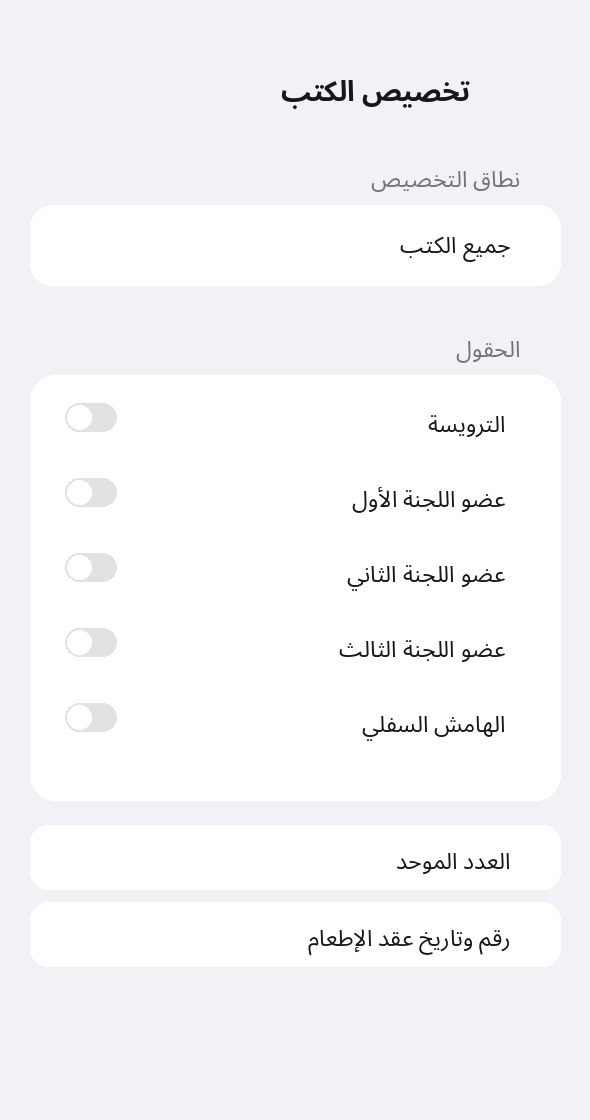
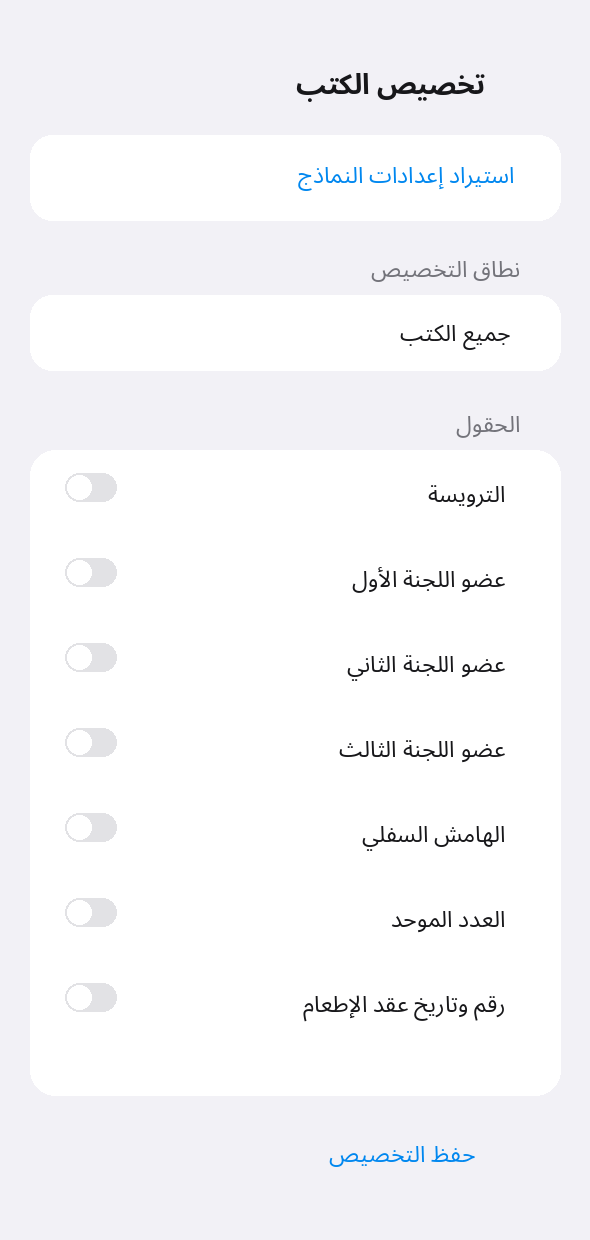
Import private Word defaults and refine draft tables

diff --git a/SalaryApp/TransferWordSelfTest.swift b/SalaryApp/TransferWordSelfTest.swift
@@ -24,6 +24,27 @@ import CryptoKit
         try check(!TransferWordFont.permitsEditableEmbedding(fontWithFlags(0x0002)) &&
                   !TransferWordFont.permitsEditableEmbedding(fontWithFlags(0x0200)) &&
                   !TransferWordFont.permitsEditableEmbedding(Data()), "restricted font permission")
+        var defaults = TransferLetterCustomizationStore()
+        defaults.common = .init(header: "ترويسة وهمية", fixedNumber: "عدد وهمي", foodContractReference: "عقد وهمي")
+        for id in TransferReferencePack.expected.keys {
+            defaults.individual[id] = .init(committeeFirst: "عضو أول", committeeSecond: "عضو ثان", committeeThird: "عضو ثالث", footer: "هامش وهمي")
+        }
+        let package = TransferWordDefaults.Package(version: 1, defaults: defaults)
+        let decoded = try TransferWordDefaults.decode(JSONEncoder().encode(package))
+        var prior = TransferLetterCustomizationStore()
+        prior.applyToAll(.init(header: "ترويسة مخصصة"))
+        prior.apply(.init(committeeFirst: "عضو مخصص"), to: "food_company")
+        let merged = TransferWordDefaults.merging(decoded, preserving: prior)
+        try check(merged.effective(for: "food_company").header == "ترويسة مخصصة" &&
+                  merged.effective(for: "food_company").committeeFirst == "عضو مخصص" &&
+                  merged.effective(for: "food_company").committeeSecond == "عضو ثان", "Word defaults preserve customizations")
+        var incompleteDefaults = defaults
+        incompleteDefaults.individual.removeValue(forKey: "water")
+        do {
+            _ = try TransferWordDefaults.decode(JSONEncoder().encode(TransferWordDefaults.Package(version: 1, defaults: incompleteDefaults)))
+            throw Failure(errorDescription: "incomplete Word settings accepted")
+        } catch is Failure { throw Failure(errorDescription: "incomplete Word settings accepted") }
+        catch { }
         let payer = "IQ06TEST123000000000001", beneficiary = "IQ76TEST123000000000002"
         let local = String(beneficiary.suffix(15)), month = "تشرين الاول 2026"
         try check(TransferRules.validIBAN(payer) && TransferRules.validIBAN(beneficiary), "synthetic accounts")
@@ -73,11 +94,13 @@ import CryptoKit
                 }
                 if count == 2 { context.beginPage() }
             }
-            guard let document = PDFDocument(data: pdf), !document.isLocked, document.pageCount == count,
-                  let firstPage = document.page(at: 0),
-                  abs(firstPage.bounds(for: .mediaBox).width - 595.3) < 2,
-                  abs(firstPage.bounds(for: .mediaBox).height - 841.9) < 2 else {
-                throw Failure(errorDescription: "synthetic PDF validation \(id)")
+            guard let document = PDFDocument(data: pdf) else { throw Failure(errorDescription: "synthetic PDF unreadable \(id) bytes=\(pdf.count)") }
+            guard !document.isLocked else { throw Failure(errorDescription: "synthetic PDF locked \(id)") }
+            guard document.pageCount == count else { throw Failure(errorDescription: "synthetic PDF pages \(id) actual=\(document.pageCount) expected=\(count)") }
+            guard let firstPage = document.page(at: 0) else { throw Failure(errorDescription: "synthetic PDF missing page \(id)") }
+            let box = firstPage.bounds(for: .mediaBox)
+            guard abs(box.width - 595.3) < 2, abs(box.height - 841.9) < 2 else {
+                throw Failure(errorDescription: "synthetic PDF size \(id) width=\(Int(box.width)) height=\(Int(box.height))")
             }
             for pageIndex in 0..<count {
                 guard let page = document.page(at: pageIndex), abs(page.bounds(for: .mediaBox).width - 595.3) < 2,
@@ -163,6 +186,17 @@ import CryptoKit
             defer { try? FileManager.default.removeItem(at: result.letter.deletingLastPathComponent()) }
             let groupXML = try content(result.letter)
             try check(result.csv != nil && groupXML.contains("المجموع"), "Word group \(id)")
+            let category: TransferCategory = id == "rafidain_group" ? .rafidain : .otherBanks
+            let expectedPlan = try TransferWordGroupPlan(allEntities: groupEntities, category: category, month: month,
+                payer: "دافع وهمي", payerIBAN: payer)
+            var wrongTable = expectedPlan.table
+            wrongTable.rows[0][4] = "999"
+            do {
+                try TransferWordVerification.verify(url: result.letter, month: month, amount: expectedPlan.total,
+                    payerIBAN: payer, text: letterText, table: wrongTable)
+                throw Failure(errorDescription: "wrong Word table amount accepted")
+            } catch is Failure { throw Failure(errorDescription: "wrong Word table amount accepted") }
+            catch { }
             generated += 1
         }
         let tooMany = (1...100).map { index -> TransferEntity in

diff --git a/SalaryApp/TransferLetterSettingsView.swift b/SalaryApp/TransferLetterSettingsView.swift
@@ -47,6 +47,11 @@ struct TransferLetterSettingsView: View {
     var body: some View {
         Form {
             Section {
+                Button(tr("استيراد إعدادات النماذج", "Import letter settings"), systemImage: "square.and.arrow.down") { importDefaults() }
+                    .disabled(busy)
+                if importing { ProgressView() }
+            } footer: { Text(tr("يملأ العدد والتواقيع والهامش من ملف الإعدادات الخاص، مع الاحتفاظ بتخصيصاتك السابقة. راجع العدد وأسماء اللجنة بعد الاستيراد.", "Fills the reference number, signatures and footer from the private settings file while preserving existing customizations. Review the reference number and committee names after import.")) }
+            Section {
                 Picker(tr("تطبيق التغييرات على", "Apply changes to"), selection: $target) {
                     Text(tr("جميع الكتب", "All letters")).tag("all")
                     ForEach(titles) { item in Text(item.title).tag(item.id) }
@@ -110,7 +115,8 @@ struct TransferLetterSettingsView: View {
         let pairs = [("header", header), ("first", first), ("second", second), ("third", third), ("footer", footer),
                      ("fixedNumber", fixedNumber), ("foodContractReference", foodContractReference)]
         guard pairs.filter({ selected.contains($0.0) }).allSatisfy({ pair in
-            pair.1.count <= 200 && !pair.1.unicodeScalars.contains(where: { $0.value < 32 && $0.value != 10 })
+            let limit = pair.0 == "footer" ? 4000 : pair.0 == "header" ? 2000 : 200
+            return pair.1.count <= limit && !pair.1.unicodeScalars.contains(where: { $0.value < 32 && $0.value != 10 })
         }) else { error = tr("أحد الحقول أطول من الحد المسموح أو يحتوي رمزاً غير صالح.", "A field is too long or contains an invalid character."); return }
         let changes = TransferLetterCustomization(header: selected.contains("header") ? header : nil,
             committeeFirst: selected.contains("first") ? first : nil, committeeSecond: selected.contains("second") ? second : nil,
@@ -130,6 +136,30 @@ struct TransferLetterSettingsView: View {
             var store = try readStore(); store.individual.removeValue(forKey: target)
             storedData = try JSONEncoder().encode(store); BackupManager.shared.markChanged(); loadTarget(); saved = true
         } catch { self.error = tr("تعذّر قراءة التخصيصات المحفوظة؛ لم يتم استبدالها.", "Could not read saved customizations; they were not replaced.") }
+    }
+    private func importDefaults() {
+        guard !busy else { return }
+        FilePicker.present(types: [.json], multiple: false) { urls in
+            guard let url = urls.first else { return }
+            importing = true; error = nil
+            Task {
+                defer { importing = false }
+                do {
+                    let imported = try await Task.detached(priority: .userInitiated) {
+                        let size = try url.resourceValues(forKeys: [.fileSizeKey]).fileSize ?? 0
+                        guard size > 0, size <= 1_000_000 else { throw TransferWordDefaults.Failure.invalid }
+                        return try TransferWordDefaults.decode(Data(contentsOf: url))
+                    }.value
+                    await FilePicker.waitUntilSettled()
+                    guard !BackupManager.shared.isWorking, !ImportCenter.shared.isBusy, !StaffImportState.shared.isImporting else {
+                        throw NSError(domain: "WordDefaults", code: 1, userInfo: [NSLocalizedDescriptionKey: tr("انتظر انتهاء العملية الحالية ثم أعد الاستيراد.", "Wait for the current operation and import again.")])
+                    }
+                    let merged = TransferWordDefaults.merging(imported, preserving: try readStore())
+                    storedData = try JSONEncoder().encode(merged)
+                    BackupManager.shared.markChanged(); loadTarget(); saved = true
+                } catch { self.error = error.localizedDescription }
+            }
+        }
     }
     private func importFont(_ style: TransferHeaderFont.Style) {
         guard !busy else { return }

diff --git a/SalaryApp/TransferWordDefaults.swift b/SalaryApp/TransferWordDefaults.swift
@@ -1,0 +1,44 @@
+import Foundation
+
+/// استيراد إعدادات مستخرجة محلياً من نماذج المالك، دون استبدال تخصيصاته السابقة.
+nonisolated enum TransferWordDefaults {
+    struct Package: Codable, Sendable {
+        let version: Int
+        let defaults: TransferLetterCustomizationStore
+    }
+    enum Failure: LocalizedError {
+        case invalid
+        var errorDescription: String? { tr("ملف إعدادات الكتب غير صالح أو لا يحتوي جميع الكتب المطلوبة.", "The letter settings file is invalid or incomplete.") }
+    }
+    static func decode(_ data: Data) throws -> TransferLetterCustomizationStore {
+        guard !data.isEmpty, data.count <= 1_000_000,
+              let package = try? JSONDecoder().decode(Package.self, from: data), package.version == 1,
+              Set(package.defaults.individual.keys) == Set(TransferReferencePack.expected.keys) else { throw Failure.invalid }
+        func valid(_ value: String?, max: Int, allowEmpty: Bool = false) -> Bool {
+            guard let value, value.count <= max, allowEmpty || !value.trimmingCharacters(in: .whitespacesAndNewlines).isEmpty else { return false }
+            return !value.unicodeScalars.contains {
+                let c = $0.value
+                return (c < 32 && c != 10) || c == 0xfffe || c == 0xffff
+            }
+        }
+        let common = package.defaults.common
+        guard valid(common.header, max: 2000), valid(common.fixedNumber, max: 200),
+              valid(common.foodContractReference, max: 200) else { throw Failure.invalid }
+        for id in TransferReferencePack.expected.keys {
+            let raw = package.defaults.individual[id]
+            guard raw?.fixedNumber == nil, raw?.foodContractReference == nil else { throw Failure.invalid }
+            let value = package.defaults.effective(for: id)
+            guard valid(value.header, max: 2000), valid(value.committeeFirst, max: 200),
+                  valid(value.committeeSecond, max: 200), valid(value.committeeThird, max: 200),
+                  valid(value.footer, max: 4000, allowEmpty: true) else { throw Failure.invalid }
+        }
+        return package.defaults
+    }
+    static func merging(_ imported: TransferLetterCustomizationStore,
+                        preserving existing: TransferLetterCustomizationStore) -> TransferLetterCustomizationStore {
+        var result = imported
+        result.applyToAll(existing.common)
+        for (id, custom) in existing.individual { result.apply(custom, to: id) }
+        return result
+    }
+}

diff --git a/SalaryApp/TransferWordTables.swift b/SalaryApp/TransferWordTables.swift
@@ -18,7 +18,7 @@ nonisolated enum TransferWordTables {
             ["1", "الحماية الاجتماعية", number(figures.socialProtection)],
             ["2", "ضريبة الدخل", number(figures.incomeTax)],
             ["", "المجموع", number(figures.treasuryTotal)]
-        ], columnWeights: [1, 6, 3])
+        ], columnWeights: [1, 6, 3], boldLastRow: true)
     }
     static func contracts(_ figures: TransferLetterFigures) throws -> TransferWordDocument.Table {
         guard figures.missingContractNominal == 0, let nominal = figures.contractNominalShare,
@@ -36,7 +36,7 @@ nonisolated enum TransferWordTables {
               valid(list.total), list.total == expected else { throw Failure.incomplete }
         var rows = list.employees.map { [$0.name, $0.rank, $0.workplace, number($0.amount)] }
         rows.append(["", "", "المجموع", number(expected)])
-        return .init(headers: ["الاسم", "الرتبة", "محل العمل", "صافي الراتب"], rows: rows, columnWeights: [150, 80, 190, 119])
+        return .init(headers: ["الاسم", "الرتبة", "محل العمل", "صافي الراتب"], rows: rows, columnWeights: [150, 80, 190, 119], boldLastRow: true)
     }
     static func anbar(_ plan: TransferIndividualPlan) throws -> TransferWordDocument.Table {
         guard case .rafidainAnbar = plan.kind, !plan.rows.isEmpty, plan.rows.count < 50_000,
@@ -45,6 +45,6 @@ nonisolated enum TransferWordTables {
             [String(index + 1), row.rank, row.name, number(row.amount), row.entity]
         }
         rows.append(["", "", "المجموع", number(plan.group.total), ""])
-        return .init(headers: ["ت", "الرتبة", "الاسم الكامل", "المبلغ", "جهة التنفيذ"], rows: rows, columnWeights: [40, 65, 149, 74, 180])
+        return .init(headers: ["ت", "الرتبة", "الاسم الكامل", "المبلغ", "جهة التنفيذ"], rows: rows, columnWeights: [40, 65, 149, 74, 180], boldLastRow: true)
     }
 }

diff --git a/SalaryApp/TransferWordDocument.swift b/SalaryApp/TransferWordDocument.swift
@@ -17,6 +17,7 @@ nonisolated enum TransferWordDocument {
         var halfPoints: Int = 22
         var columnWeights: [Int]? = nil
         var showBorders = true
+        var boldLastRow = false
     }
     enum Block: Sendable {
         case paragraph(Paragraph)
@@ -68,15 +69,17 @@ nonisolated enum TransferWordDocument {
         }
         let borders = ["top", "left", "bottom", "right", "insideH", "insideV"]
             .map { "<w:\($0) w:val=\"\(t.showBorders ? "single" : "nil")\" w:sz=\"8\" w:color=\"000000\"/>" }.joined()
-        func row(_ cells: [String], header: Bool) throws -> String {
+        func row(_ cells: [String], header: Bool, bold: Bool = false) throws -> String {
             let result = try cells.enumerated().map { index, text in
-                "<w:tc><w:tcPr><w:tcW w:w=\"\(widths[index])\" w:type=\"dxa\"/></w:tcPr>\(try paragraph(Paragraph(text: text, font: t.font, halfPoints: t.halfPoints, bold: header, centered: true)))</w:tc>"
+                "<w:tc><w:tcPr><w:tcW w:w=\"\(widths[index])\" w:type=\"dxa\"/></w:tcPr>\(try paragraph(Paragraph(text: text, font: t.font, halfPoints: t.halfPoints, bold: header || bold, centered: true)))</w:tc>"
             }.joined()
             return "<w:tr>\(header ? "<w:trPr><w:tblHeader/></w:trPr>" : "")\(result)</w:tr>"
         }
         let headers: String
         if t.headers.isEmpty { headers = "" } else { headers = try row(t.headers, header: true) }
-        let rows = try t.rows.map { try row($0, header: false) }.joined()
+        let rows = try t.rows.enumerated().map { index, values in
+            try row(values, header: false, bold: t.boldLastRow && index == t.rows.count - 1)
+        }.joined()
         let grid = widths.map { "<w:gridCol w:w=\"\($0)\"/>" }.joined()
         return "<w:tbl><w:tblPr><w:bidiVisual/><w:tblW w:w=\"10206\" w:type=\"dxa\"/><w:tblLayout w:type=\"fixed\"/><w:tblBorders>\(borders)</w:tblBorders></w:tblPr><w:tblGrid>\(grid)</w:tblGrid>\(headers)\(rows)</w:tbl>"
     }

diff --git a/SalaryApp/TransferWordGroupPlan.swift b/SalaryApp/TransferWordGroupPlan.swift
@@ -44,6 +44,6 @@ nonisolated struct TransferWordGroupPlan: Sendable {
         self.month = month
         self.payerIBAN = ArabicText.latinDigits(payerIBAN).uppercased().filter { !$0.isWhitespace && $0 != "-" }
         self.table = TransferWordDocument.Table(headers: headers, rows: rows, halfPoints: Int((fit.fontSize * 2).rounded()),
-                                                columnWeights: weights)
+                                                columnWeights: weights, boldLastRow: true)
     }
 }

diff --git a/ci/prepare_transfer_word_defaults.py b/ci/prepare_transfer_word_defaults.py
@@ -1,0 +1,129 @@
+"""Prepare a private Word-settings file from the owner's DOCX and PDF references.
+
+The output contains private names and must never be committed. The script prints
+only identifiers and validation results, not the extracted content.
+"""
+import argparse
+import difflib
+import hashlib
+import json
+import re
+import unicodedata
+from pathlib import Path
+from zipfile import ZipFile
+
+import fitz
+from lxml import etree
+
+N = {"w": "http://schemas.openxmlformats.org/wordprocessingml/2006/main"}
+BOOKS = {
+    "food_company": ("شركة عراق الجوال.docx", 638.770, 638.666, 86.304, 131.669),
+    "tax_social": ("خزينة الانبار حماية اجتماعية وضريبة.docx", 678.040, 677.936, 60.864, 182.501),
+    "contracts": ("الضمان الاجتماعي.docx", 659.080, 658.976, 60.864, 182.501),
+    "rafidain_anbar": ("مصرف الرافدين فرع الانبار.docx", 693.280, 693.176, 60.864, 182.501),
+    "water": ("الموارد المائية.docx", 643.720, 643.616, 60.864, 182.501),
+    "housing": ("صندوق الاسكان فرع الانبار.docx", 657.040, 656.936, 60.864, 182.501),
+    "ramadi": ("الرمادي.docx", 626.650, 626.546, 60.864, 182.501),
+    "rafidain_group": ("مجموعة مصارف الرافدين.docx", 661.240, 661.136, 70.464, 163.445),
+    "other_banks_group": ("مجموعة مصارف الرشيد.docx", 661.240, 661.136, 70.464, 163.445),
+    "cash_salary": ("امانات رواتب.docx", 629.890, 629.786, 60.864, 182.501),
+    "food_tax": ("امانات ضريبة.docx", 654.760, 654.656, 60.864, 182.501),
+}
+
+
+def normalize(value):
+    table = str.maketrans({"أ": "ا", "إ": "ا", "آ": "ا", "ٱ": "ا", "ة": "ه", "ى": "ي", "ئ": "ي", "ؤ": "و", "ھ": "ه"})
+    return "".join(c for c in unicodedata.normalize("NFKC", value).translate(table) if c.isalnum())
+
+
+def paragraphs(root):
+    return ["".join(p.xpath("./w:r/w:t/text()", namespaces=N)).strip() for p in root.xpath(".//w:p", namespaces=N)]
+
+
+def source_file(root, name):
+    files = list(root.rglob(name))
+    if not files or len({hashlib.sha256(p.read_bytes()).digest() for p in files}) != 1:
+        raise ValueError("missing or conflicting DOCX: " + name)
+    return files[0]
+
+
+def main():
+    parser = argparse.ArgumentParser()
+    parser.add_argument("--source-root", type=Path, required=True)
+    parser.add_argument("--pdf-pack", type=Path, required=True)
+    parser.add_argument("--output", type=Path, required=True)
+    args = parser.parse_args()
+    repo = Path(__file__).resolve().parents[1]
+    if args.output.resolve().is_relative_to(repo):
+        raise ValueError("private output must be outside the repository")
+    defaults = {}
+    headers, numbers, contract_references = [], [], []
+    with ZipFile(args.pdf_pack) as pack:
+        for book_id, (name, y, y3, x3, w3) in BOOKS.items():
+            with ZipFile(source_file(args.source_root, name)) as doc:
+                header = paragraphs(etree.fromstring(doc.read("word/header1.xml")))
+                header = [s for s in header if s]
+                blocks = [tuple(header[i:i + 5]) for i, s in enumerate(header)
+                          if "جمهورية" in s and i + 4 < len(header) and "الحسابات" in header[i + 4]]
+                if not blocks or len(set(blocks)) != 1:
+                    raise ValueError("ambiguous header: " + book_id)
+                headers.append(blocks[0])
+                number_candidates = []
+                for value in header:
+                    if sum(c.isdigit() for c in value) == 3 and value.count("/") == 3:
+                        number_candidates += re.findall(r"[0-9٠-٩۰-۹]+\s*/\s*[0-9٠-٩۰-۹]+\s*/\s*[\u0600-\u06ff]\s*/", value)
+                number_candidates = {"".join(s.split()) for s in number_candidates}
+                if len(number_candidates) != 1:
+                    raise ValueError("ambiguous fixed number: " + book_id)
+                numbers.append(next(iter(number_candidates)))
+                body = etree.fromstring(doc.read("word/document.xml"))
+                body_paragraphs = [s for s in paragraphs(body) if s]
+                candidates = list(set(s for s in body_paragraphs if 4 < len(normalize(s)) < 80))
+                reference = fitz.open(stream=pack.read("templates/" + book_id + ".pdf"), filetype="pdf")
+                page = reference[0]
+                rects = [(452.260, y, 452.260 + 94.289, y + 17.668),
+                         (295.610, y, 295.610 + 98.711, y + 17.668),
+                         (x3, y3, x3 + w3, y3 + 17.795)]
+                members = []
+                for rect in rects:
+                    expected = normalize(page.get_textbox(fitz.Rect(rect)))
+                    ranked = sorted(((difflib.SequenceMatcher(None, expected, normalize(s)).ratio(), s)
+                                     for s in candidates), reverse=True)
+                    if not expected or len(ranked) < 2 or ranked[0][0] < 0.88 or ranked[0][0] - ranked[1][0] < 0.18:
+                        raise ValueError("ambiguous committee field: " + book_id)
+                    members.append(ranked[0][1])
+                footer_parts = []
+                for part in doc.namelist():
+                    if re.fullmatch(r"word/footer\d+\.xml", part):
+                        lines = [s for s in paragraphs(etree.fromstring(doc.read(part))) if s]
+                        footer_parts.append(lines)
+                footer = max(footer_parts, key=lambda lines: sum(map(len, lines)), default=[])
+                if not footer:
+                    raise ValueError("missing footer: " + book_id)
+                defaults[book_id] = {"committeeFirst": members[0], "committeeSecond": members[1],
+                                     "committeeThird": members[2], "footer": "\n".join(footer)}
+                if book_id in ("food_company", "food_tax"):
+                    matches = []
+                    for paragraph in body_paragraphs:
+                        if "نرجو تحويل" not in paragraph or "عقد تجهيز" not in paragraph:
+                            continue
+                        suffix = paragraph[paragraph.index("عقد تجهيز"):]
+                        match = re.search(r"المرقم\s*\(([^()]*)\)", suffix)
+                        if match:
+                            matches.append(match.group(1).strip())
+                    if len(matches) != 1:
+                        raise ValueError("ambiguous food contract reference: " + book_id)
+                    contract_references.append(matches[0])
+            print(book_id + ": checked")
+    if len(set(headers)) != 1 or len(set(numbers)) != 1 or len(contract_references) != 2 or len(set(contract_references)) != 1:
+        raise ValueError("common reference fields do not match")
+    package = {"version": 1, "defaults": {"common": {"header": "\n".join(headers[0]),
+        "fixedNumber": numbers[0], "foodContractReference": contract_references[0]}, "individual": defaults}}
+    args.output.parent.mkdir(mode=0o700, parents=True, exist_ok=True)
+    args.output.write_text(json.dumps(package, ensure_ascii=False, separators=(",", ":")), encoding="utf-8")
+    args.output.chmod(0o600)
+    print("private settings file prepared")
+
+
+if __name__ == "__main__":
+    main()

diff --git a/AGENTS.md b/AGENTS.md
@@ -169,6 +169,7 @@
 - عدّل المالك شرط المطابقة الحرفية: يُعتمد مضمون الكتاب وخطه وتنسيقه العام، ويُسمح بتحرك السطور والجداول لاحتواء البيانات. تبقى صحة المبالغ والأسماء والتوقيعات وقاعدة صفحة الجدول الواحدة للمجموعتين مطلوبة، ولا يُستنتج من المرونة السماح بحذف محتوى أو إخراج نتيجة غير مدققة. مسار Word هو المطلوب حالياً؛ فشل تدقيق PDF التجريبي لا يعني جاهزية كتب Word.
 - `TransferWordValues` و`TransferWordTables` و`TransferWordGroupPlan` تجهز مبالغ الشهر والتفقيط والجداول مع تدقيق المصادر وCSV. ترتبط بمسودات الكتب الأحد عشر عبر `TransferWordDraftGenerator` في معاينة تجريبية فقط. لا يُعد اجتياز اختبارات البيانات إثباتاً لصحة شكل Word أو جاهزية المشاركة.
 - `TransferWordVerification` يقرأ محتوى ملف Word الناتج ويقارن نص المبلغ ورقمه والشهر وحساب الدفع والمستفيد والتوقيعات والجدول بلقطة البيانات قبل عرض المسودة. لا يقرأ ترتيب الصفحات أو يثبت شكل الخط؛ يبقى فحص Word الحقيقي وشرط صفحة جدول المجموعة شرطين مستقلين.
+- ملف إعدادات Word الخاص يُجهّز محلياً من نماذج المالك بواسطة `ci/prepare_transfer_word_defaults.py` خارج المستودع؛ يحتوي أسماء اللجنة والهوامش والعدد ومرجع العقد ولا يجوز رفعه. يتحقق السكربت من وحدة العدد ومرجع العقد ويرفض تطابق أسماء اللجنة الغامض؛ يجب على المالك مراجعة الأسماء والعدد بعد الاستيراد. `TransferWordDefaults` يرفض الحزمة الناقصة ويحتفظ بتخصيصات المستخدم السابقة عند الدمج، وتُنسخ الإعدادات ضمن مفتاح التخصيصات الموجود في النسخة الاحتياطية.
 - `TransferWordDocument` ينشئ فقرات وجداول Word على A4، و`TransferWordPreview` يعرض مسودة محلية تجريبية؛ لم يتحقق بعد من العرض على الآيفون أو Word ولا يضمن أن جدول المجموعة سيظهر في صفحة واحدة. يؤخذ العدد الموحد والترويسة وأسماء اللجنة والهامش ومرجع عقد الإطعام من تخصيصات المستخدم المحفوظة في النسخة الاحتياطية. مشاركة الكتب معطّلة. يضمّن خط Sakkal العريض عند استيراده إذا كان يسمح بتضمينه، وإلا تظهر ملاحظة عن احتمال اختلافه.
 - `TransferReferencePack` يتحقق من إحدى عشرة نسخة PDF مرجعية (البصمة وصفحات A4)، وتدعم الحزمة الثانية PDF إضافياً لأرقام الشهر بخط Sakkal Majalla الذي أرسله المالك. تبقى الحزمة الأولى قابلة للاسترجاع؛ لا تُعامل على أنها تحتوي نموذج الأرقام. يستوردها المالك كحزمة خاصة من صفحة ملفات التحويل، وتحفظ ضمن النسخة الاحتياطية؛ تُفحص قبل استبدال بيانات التطبيق في الاسترجاع. الحزمة الفعلية ليست ضمن المستودع؛ الاستيراد وحده لا يجهّز القوالب للتصدير أو يحذف مبالغها القديمة.
 - `TransferMonthDigits` و`TransferPDFBackground` و`TransferPDFOverlay` أسس قيد الاختبار للأرقام وتفريغ المراجع وكتابة الحقول؛ لا تعني اكتمال بقية الكتب. التفريغ يستخدم صورة صفحة عالية الدقة حتى لا تبقى النصوص القديمة مخفية وقابلة للاستخراج. يجب تدقيق اكتمال مواضع كل قالب وعدم قص النص واختبار التطابق والأداء على الجهاز قبل الربط.
